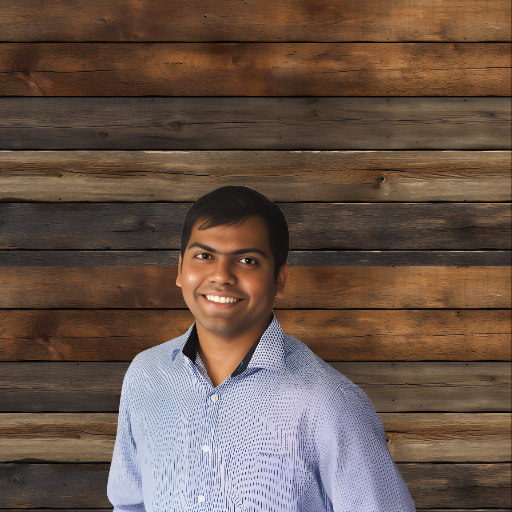
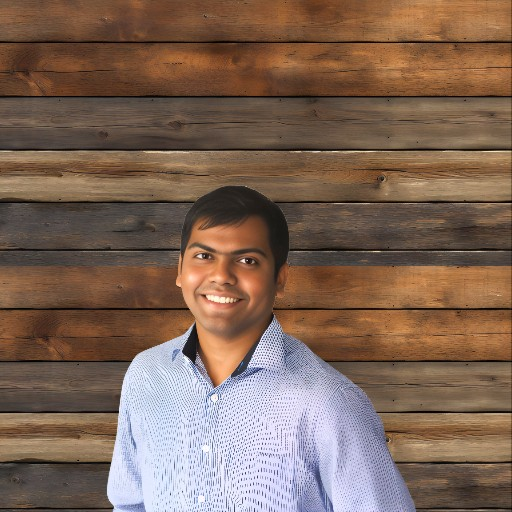
photography

diff --git a/index.html b/index.html
@@ -120,7 +120,7 @@
                 </div>
                 <div class="card">
                     <div class="card__image-container">
-                        <img src="https://via.placeholder.com/300" alt="Card Image">
+                        <img src="assets/img/photography.jpg" alt="Card Image">
                     </div>
                     <div class="card__content">
                         <h3 class="card__title">Card Title 1</h3>
